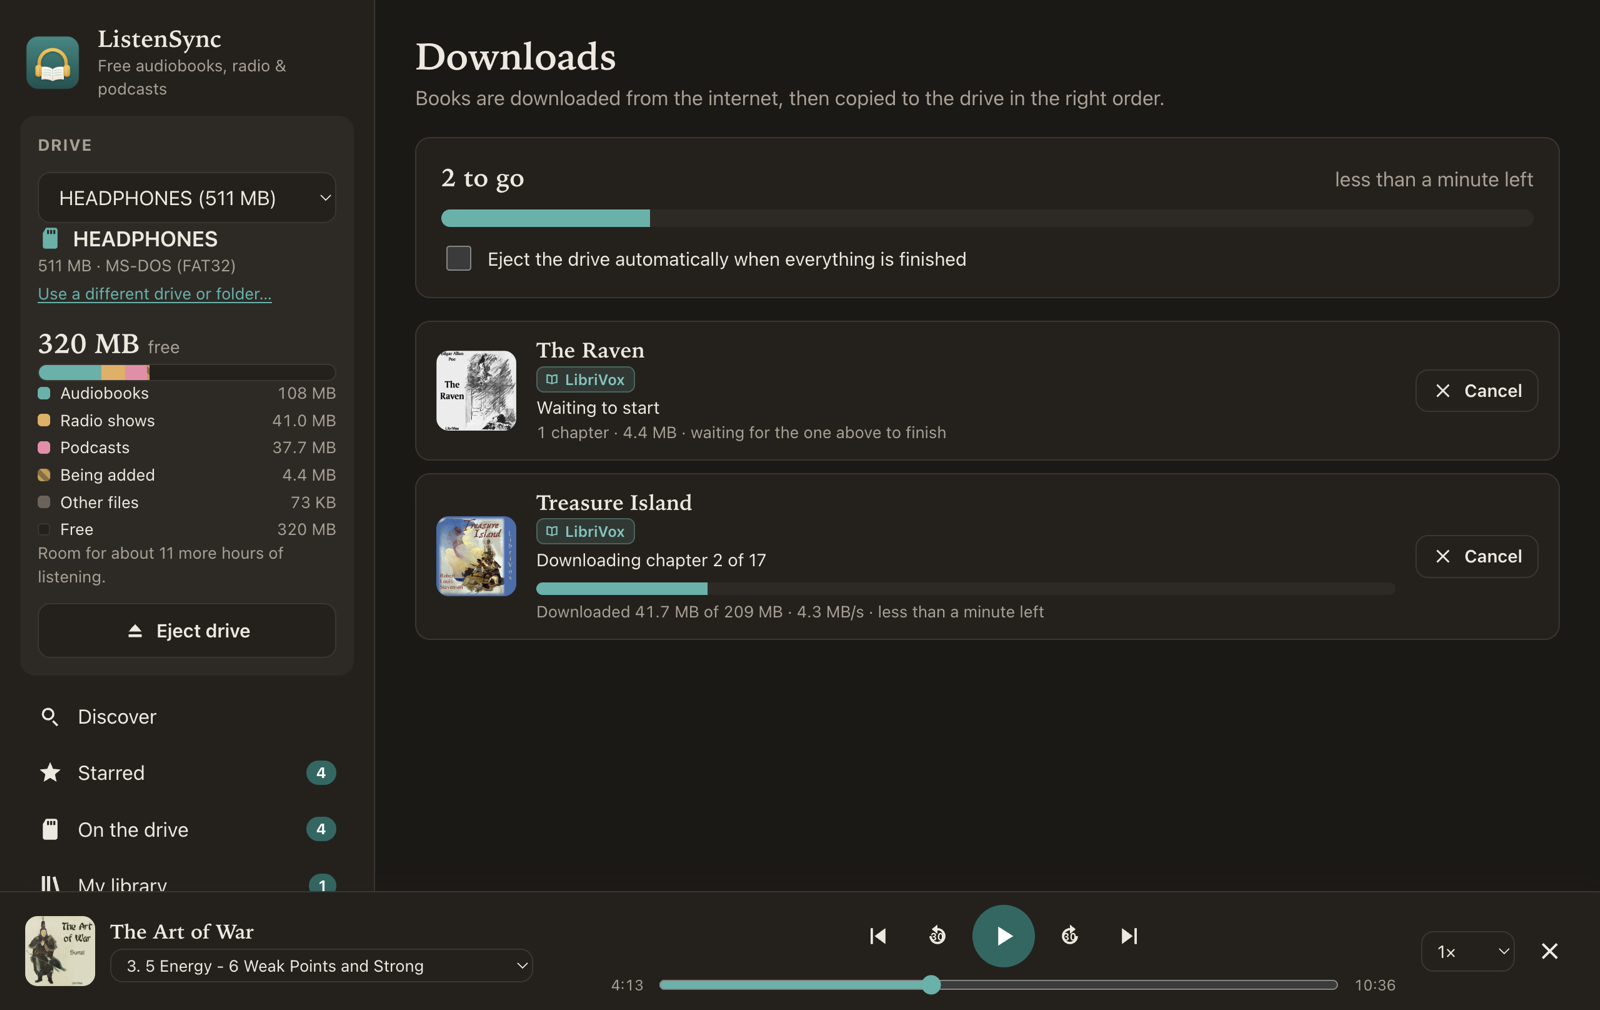
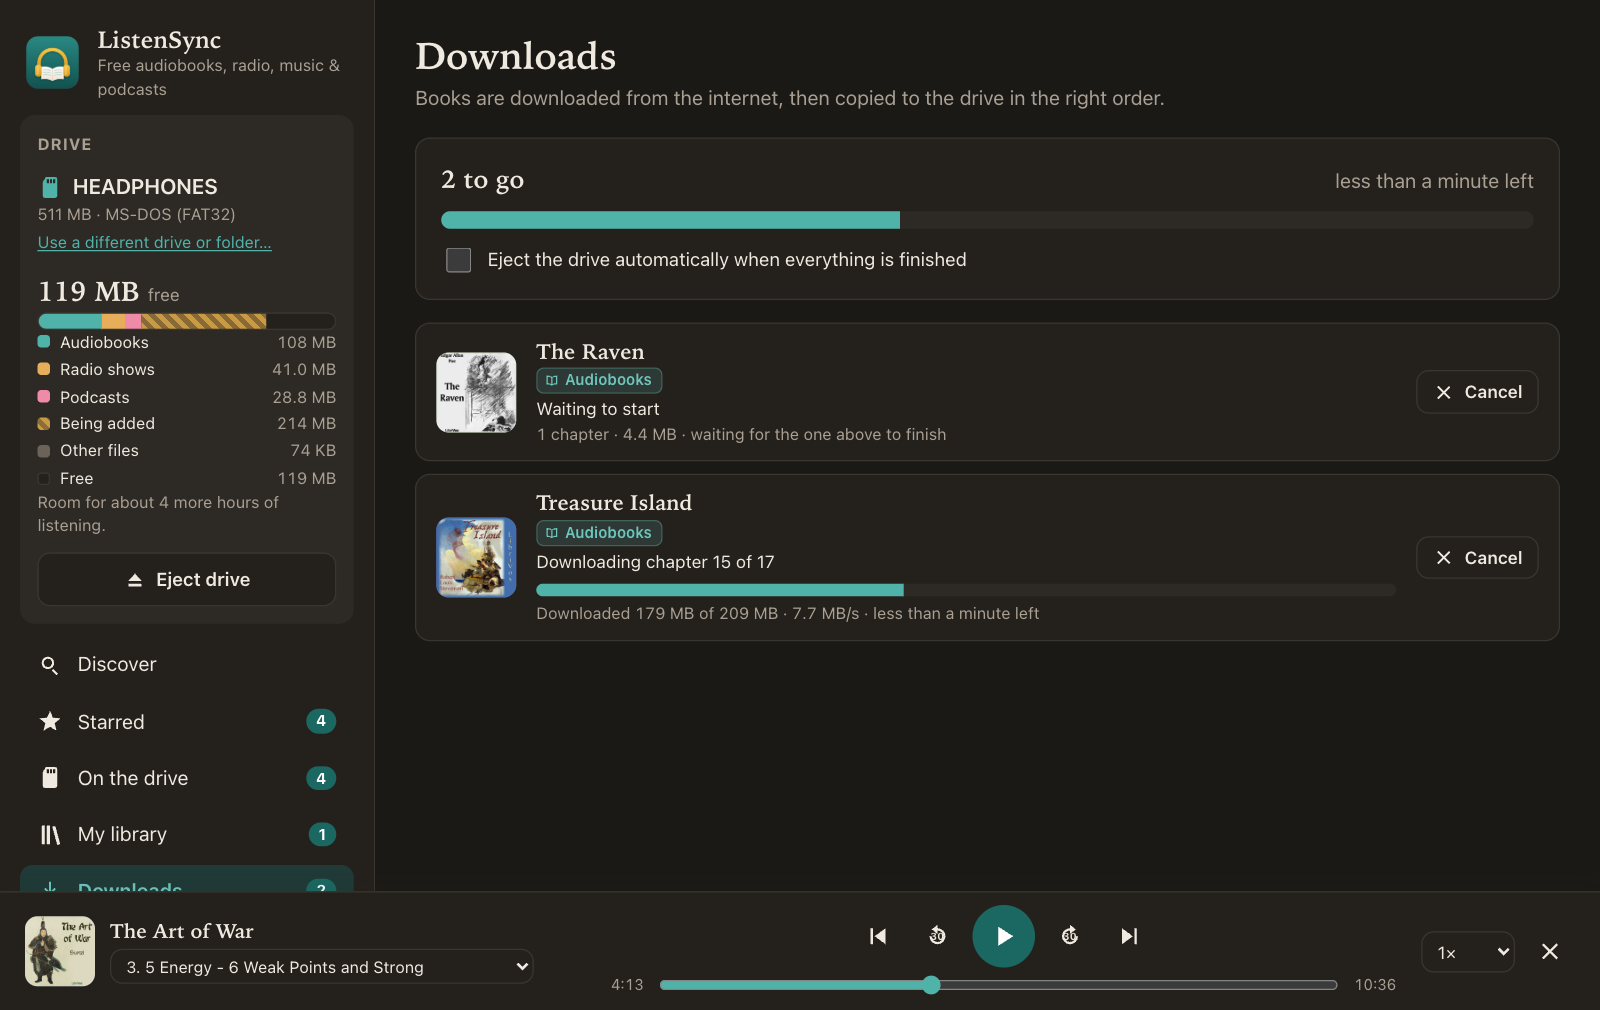
New screenshots for 1.3.0, with Live Music and Vintage Music
Retake the app page and README screenshots with the new source tabs and
names, using the same demo books, drive and player as before, and add
shots of a live concert and the Jazz & Swing view of Vintage Music. Every
visible title and cover was checked. CLAUDE.md: how to let a disk image
act as the drive and hide scrollbars for screenshots.

diff --git a/docs/index.html b/docs/index.html
@@ -107,7 +107,7 @@
     </div>
     <p class="meta"><span id="version">Latest version</span> · <a id="dl-portable" href="https://github.com/Hypnopompia/ListenSync/releases/latest">Windows portable</a> · <a href="https://github.com/Hypnopompia/ListenSync/releases">All downloads</a> · Free and open source</p>
 
-    <a class="zoom" href="screenshots/discover.png"><img class="hero" src="screenshots/discover.png" alt="ListenSync showing LibriVox audiobooks on shelves by genre" /></a>
+    <a class="zoom" href="screenshots/discover.png"><img class="hero" src="screenshots/discover.png" alt="ListenSync showing audiobooks on shelves by genre" /></a>
   </header>
 
   <main class="wrap">
@@ -152,6 +152,8 @@
       <div class="gallery">
         <figure><a class="zoom" href="screenshots/book-details.png"><img src="screenshots/book-details.png" alt="Book details" loading="lazy" /></a><figcaption>Details, ratings and chapters for every book</figcaption></figure>
         <figure><a class="zoom" href="screenshots/podcasts.png"><img src="screenshots/podcasts.png" alt="Podcasts" loading="lazy" /></a><figcaption>Top podcast charts by category, plus search</figcaption></figure>
+        <figure><a class="zoom" href="screenshots/live-music.png"><img src="screenshots/live-music.png" alt="A live concert with its track list" loading="lazy" /></a><figcaption>Live concerts, with every show's track list</figcaption></figure>
+        <figure><a class="zoom" href="screenshots/vintage-music.png"><img src="screenshots/vintage-music.png" alt="Vintage jazz songs from 78 rpm records" loading="lazy" /></a><figcaption>Vintage music from old 78 rpm records, by genre</figcaption></figure>
         <figure><a class="zoom" href="screenshots/drive.png"><img src="screenshots/drive.png" alt="On the drive" loading="lazy" /></a><figcaption>What's on the drive, checked and in play order</figcaption></figure>
         <figure><a class="zoom" href="screenshots/episodes.png"><img src="screenshots/episodes.png" alt="Choosing episodes" loading="lazy" /></a><figcaption>Pick the next batch of episodes that fits</figcaption></figure>
         <figure><a class="zoom" href="screenshots/library.png"><img src="screenshots/library.png" alt="My library and player" loading="lazy" /></a><figcaption>Pick up where you left off</figcaption></figure>

diff --git a/README.md b/README.md
@@ -7,12 +7,16 @@ MP3 player (for example headphones with a card slot), with everything in the rig
 **[Download ListenSync](https://hypnopompia.github.io/ListenSync/)** for macOS or Windows
 (or see [all releases](https://github.com/Hypnopompia/ListenSync/releases/latest)).
 
-![ListenSync: browsing LibriVox audiobooks](docs/screenshots/discover.png)
+![ListenSync: browsing audiobooks](docs/screenshots/discover.png)
 
 <table>
   <tr>
     <td width="50%"><img src="docs/screenshots/book-details.png" alt="Book details with rating, description and chapters"><br><sub>Details, ratings and chapters for every book</sub></td>
     <td width="50%"><img src="docs/screenshots/podcasts.png" alt="Podcasts by category"><br><sub>Podcasts: top charts by category, plus search</sub></td>
+  </tr>
+  <tr>
+    <td><img src="docs/screenshots/live-music.png" alt="A live concert with its track list"><br><sub>Live concerts, with every show's track list</sub></td>
+    <td><img src="docs/screenshots/vintage-music.png" alt="Vintage jazz songs from 78 rpm records"><br><sub>Vintage music from old 78 rpm records, by genre</sub></td>
   </tr>
   <tr>
     <td><img src="docs/screenshots/drive.png" alt="What's on the drive, checked and in play order"><br><sub>What's on the drive, checked and in play order</sub></td>

diff --git a/CLAUDE.md b/CLAUDE.md
@@ -18,7 +18,10 @@ caches or file formats in settings, buttons or messages unless there's no other 
 - Take them with a separate profile (`LISTENSYNC_PROFILE`, see below) and a fake drive: a 512 MB
   FAT32 disk image named HEADPHONES
   (`hdiutil create -size 512m -fs "MS-DOS FAT32" -volname HEADPHONES -layout MBRSPUD x.dmg`).
-- Match the existing images: 1600×1010, which is the app at 1280×808 at 1.25× scale.
+  The app ignores disk images unless started with `SD_LOADER_ALLOW_DISK_IMAGES=1`.
+- Match the existing images: 1600×1010, which is the app at 1280×808 at 1.25× scale, with
+  scrollbars hidden. The app's CSP blocks `<style>` tags, so hide them from script with a
+  constructed stylesheet (`document.adoptedStyleSheets`) and inline styles.
 
 ## Testing the app
 
